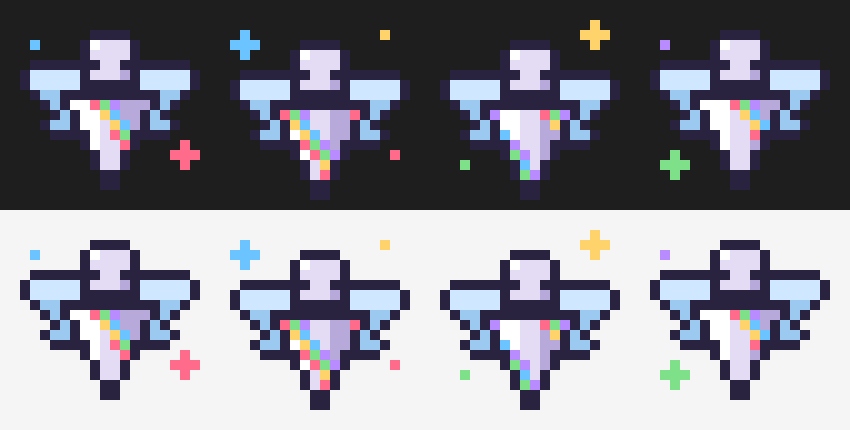
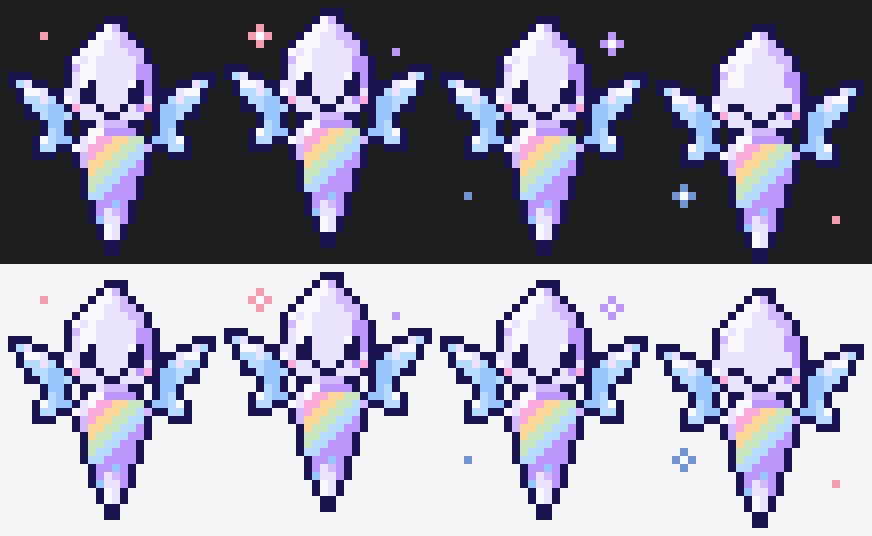
P5-26: redraw Prismite from @danielpg95's reference

diff --git a/plugin/content/CREDITS.md b/plugin/content/CREDITS.md
@@ -27,7 +27,7 @@ noted (decision 0011). Add a row whenever you add or change an asset.
 | `modsters/glowcap/sprite.png` | @danielpg95 (drawn with Claude Code) | CC BY 4.0 | Glowcap, redrawn in P5-26 from @danielpg95's reference |
 | `modsters/mossmole/sprite.png` | @danielpg95 (drawn with Claude Code) | CC BY 4.0 | Mossmole, redrawn in P5-26 from @danielpg95's reference |
 | `modsters/echobat/sprite.png` | @danielpg95 (drawn with Claude Code) | CC BY 4.0 | Echobat, redrawn in P5-26 from @danielpg95's reference |
-| `modsters/prismite/sprite.png` | @danielpg95 (drawn with Claude Code) | CC BY 4.0 | Crystal Grotto |
+| `modsters/prismite/sprite.png` | @danielpg95 (drawn with Claude Code) | CC BY 4.0 | Prismite, redrawn in P5-26 from @danielpg95's reference |
 | `modsters/quartzclaw/sprite.png` | @danielpg95 (drawn with Claude Code) | CC BY 4.0 | Crystal Grotto |
 | `modsters/geodon/sprite.png` | @danielpg95 (drawn with Claude Code) | CC BY 4.0 | Crystal Grotto |
 | `modsters/gemsnake/sprite.png` | @danielpg95 (drawn with Claude Code) | CC BY 4.0 | Crystal Grotto |
